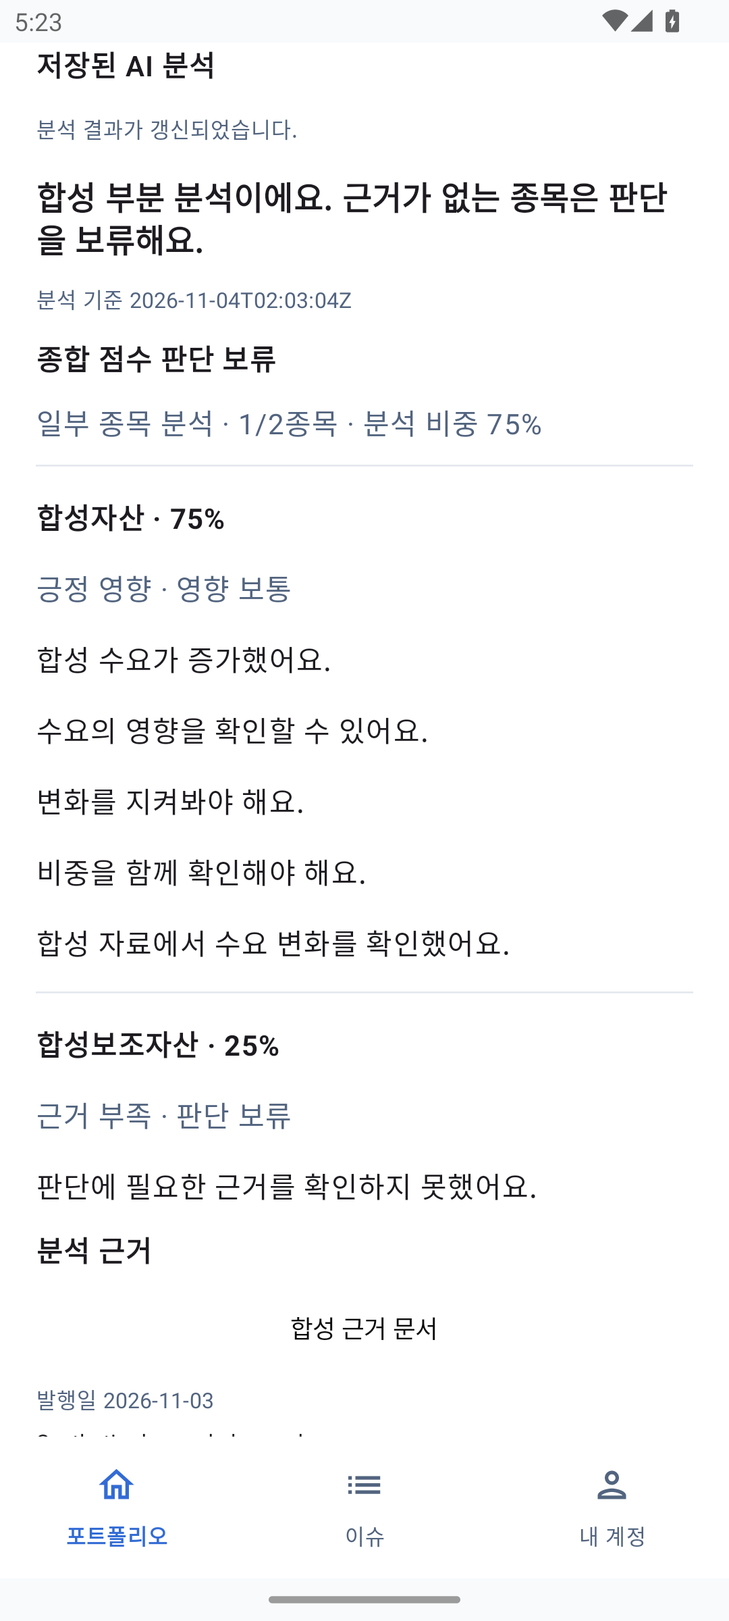
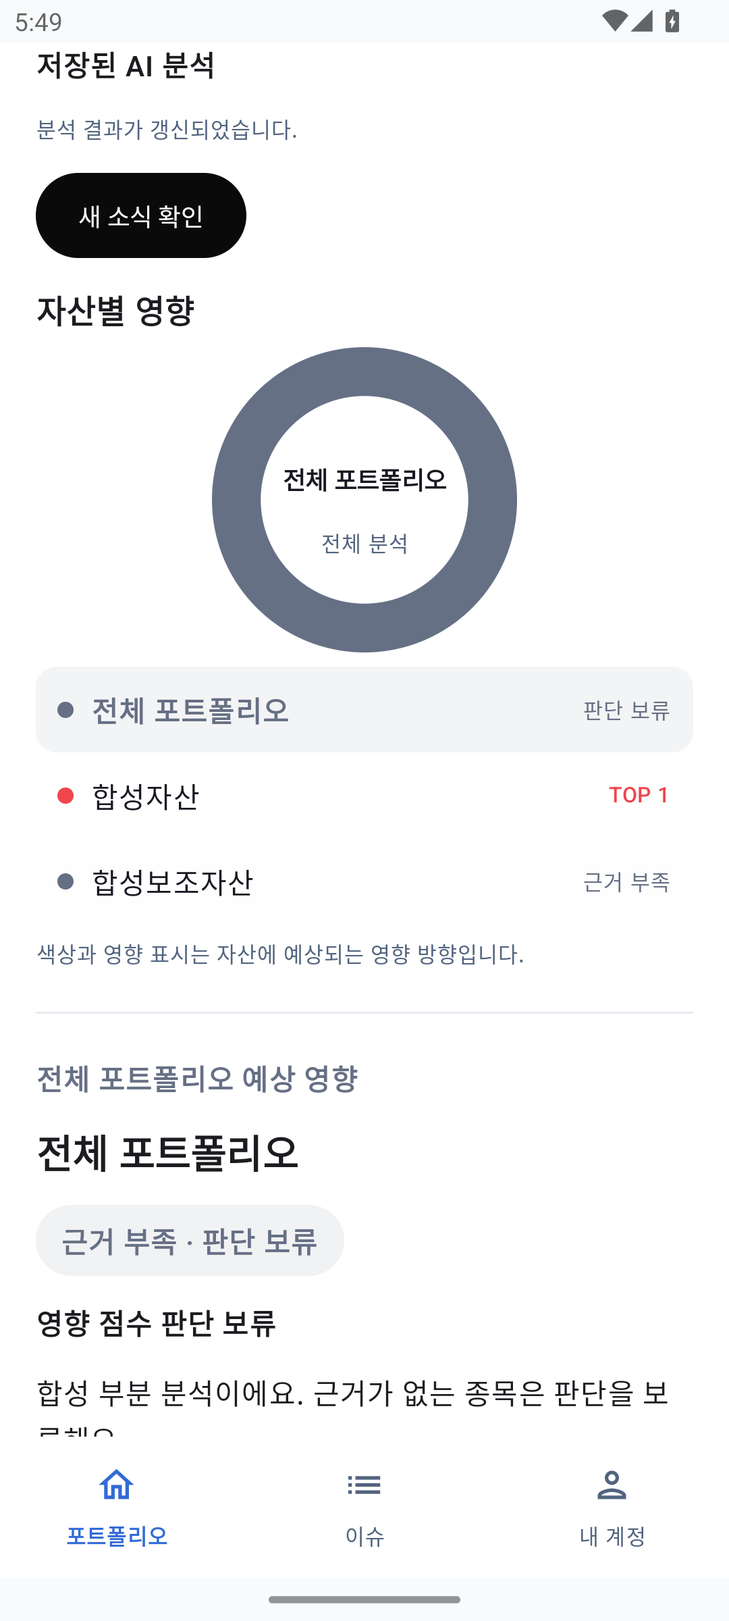
fix: 원본 AI 분석의 도넛과 자산 선택 화면 이식

diff --git a/clients/android/app/src/main/kotlin/org/daynomy/android/PortfolioAiSection.kt b/clients/android/app/src/main/kotlin/org/daynomy/android/PortfolioAiSection.kt
@@ -1,6 +1,19 @@
 package org.daynomy.android
 
 import androidx.compose.foundation.layout.*
+import androidx.compose.foundation.Canvas
+import androidx.compose.foundation.background
+import androidx.compose.foundation.selection.selectable
+import androidx.compose.foundation.shape.RoundedCornerShape
+import androidx.compose.ui.Alignment
+import androidx.compose.ui.graphics.Color
+import androidx.compose.ui.graphics.drawscope.Stroke
+import androidx.compose.ui.geometry.Offset
+import androidx.compose.ui.geometry.Size
+import androidx.compose.ui.platform.LocalDensity
+import java.time.OffsetDateTime
+import java.time.ZoneId
+import java.time.format.DateTimeFormatter
 import androidx.compose.material3.*
 import androidx.compose.runtime.*
 import androidx.compose.runtime.saveable.rememberSaveable
@@ -25,7 +38,7 @@ internal fun PortfolioAiSection(controller: PortfolioAiController, canGenerate: 
             Text(if (expanded) "AI 포트폴리오 분석 접기" else "AI 포트폴리오 분석")
         }
         if (expanded) {
-            Text("보유 종목의 이슈와 영향을 확인하세요.", color = PortfolioStyle.muted)
+            Text("AI 분석", fontSize = 24.sp, fontWeight = FontWeight.Bold)
             if (state.loading || state.submitting) {
                 LinearProgressIndicator(Modifier.fillMaxWidth())
                 Text(if (state.submitting) "AI 분석을 요청하고 있어요." else "저장된 분석을 불러오고 있어요.",
@@ -44,24 +57,24 @@ internal fun PortfolioAiSection(controller: PortfolioAiController, canGenerate: 
                         Text(when (outcome) { "UNCHANGED" -> "같은 근거의 저장된 분석을 재사용했습니다."; "UNCONFIRMED" -> "최신 근거 확인이 필요합니다."; else -> "분석 결과가 갱신되었습니다." },
                             color = PortfolioStyle.muted, style = MaterialTheme.typography.bodySmall)
                     }
-                    saved.analysis?.let { result ->
+                    saved.analysis?.let {
                         if (!saved.matchesCurrentPortfolio || state.portfolioChanged || saved.status in setOf("FAILED", "PROCESSING") || state.message != null) {
                             Text("이전 성공 분석 · 현재 상태와 구분해 확인하세요.", color = PortfolioStyle.muted)
                         }
-                        AiResult(result)
+
                     }
                 }
                 val idle = !state.loading && !state.submitting
                 val allowPost = idle && canGenerate && saved != null && !state.outcomeUnknown && saved.status != "PROCESSING"
-                Column(verticalArrangement = Arrangement.spacedBy(8.dp)) {
-                    Button({ controller.generate() }, enabled = allowPost, shape = PortfolioStyle.pill,
-                        modifier = Modifier.heightIn(min = 48.dp).testTag("ai-generate")) { Text("현재 포트폴리오 분석") }
-                    OutlinedButton({ controller.generate(true) }, enabled = allowPost && saved?.analysis != null, shape = PortfolioStyle.pill,
-                        modifier = Modifier.heightIn(min = 48.dp).testTag("ai-refresh")) { Text("최신 근거 확인") }
-                    TextButton(controller::load, enabled = idle, modifier = Modifier.heightIn(min = 48.dp).testTag("ai-reload")) { Text("저장 상태 다시 조회") }
-                }
+                Button({ controller.generate(true) }, enabled = allowPost && saved?.analysis != null, shape = PortfolioStyle.pill,
+                    colors = ButtonDefaults.buttonColors(containerColor = Color(0xff0a0a0a)),
+                    modifier = Modifier.heightIn(min = 48.dp).testTag("ai-refresh")) { Text("새 소식 확인") }
                 if (!canGenerate) Text("보유 종목을 등록하고 거래 상태를 확인하면 분석을 요청할 수 있어요.", color = PortfolioStyle.muted, style = MaterialTheme.typography.bodySmall)
                 if (state.outcomeUnknown) Text("요청이 처리됐을 수 있습니다. 다시 분석하기 전에 저장 상태를 조회하세요.", color = PortfolioStyle.muted)
+                saved?.analysis?.let { AiResult(it) }
+                OutlinedButton({ controller.generate() }, enabled = allowPost, shape = PortfolioStyle.pill,
+                    modifier = Modifier.heightIn(min = 48.dp).testTag("ai-generate")) { Text("현재 포트폴리오 분석") }
+                TextButton(controller::load, enabled = idle, modifier = Modifier.heightIn(min = 48.dp).testTag("ai-reload")) { Text("저장 상태 다시 조회") }
                 TextButton(controller::loadHistory, enabled = !state.historyLoading && !state.submitting,
                     modifier = Modifier.heightIn(min = 48.dp).testTag("ai-history")) { Text("분석 이력 조회") }
                 if (state.historyLoading) Text("분석 이력을 불러오고 있어요.")
@@ -85,29 +98,117 @@ internal fun PortfolioAiSection(controller: PortfolioAiController, canGenerate: 
 
 @Composable
 private fun AiResult(result: PortfolioAiAnalysis) {
-    Column(verticalArrangement = Arrangement.spacedBy(12.dp)) {
-        Text(result.overallImpact, Modifier.testTag("ai-result"), fontSize = 18.sp, fontWeight = FontWeight.SemiBold)
-        result.analyzedAt?.let { Text("분석 기준 $it", color = PortfolioStyle.muted, style = MaterialTheme.typography.bodySmall) }
-        Text("종합 점수 ${result.overallScore?.stripTrailingZeros()?.toPlainString()?.plus("점") ?: "판단 보류"}", Modifier.testTag("ai-score"), fontWeight = FontWeight.Bold)
-        Text(when (result.coverage) { "COMPLETE" -> "전체 종목 분석"; "PARTIAL" -> "일부 종목 분석"; "INSUFFICIENT" -> "분석 근거 부족"; else -> "분석 범위 정보 없음" } +
-            " · ${result.analyzedAssetCount}/${result.totalAssetCount}종목" + (result.analyzedWeight?.let { " · 분석 비중 ${it.stripTrailingZeros().toPlainString()}%" } ?: ""),
-            Modifier.testTag("ai-coverage"), color = PortfolioStyle.muted)
-        Column(Modifier.testTag("ai-impacts"), verticalArrangement = Arrangement.spacedBy(16.dp)) {
-            result.impacts.forEach { impact ->
-                HorizontalDivider(color = PortfolioStyle.line)
-                Text("${impact.assetName} · ${impact.weight.stripTrailingZeros().toPlainString()}%", fontWeight = FontWeight.Bold)
-                Text(directionLabel(impact.direction) + (impact.impactLevel?.let { " · 영향 ${when (it) { "HIGH" -> "높음"; "MEDIUM" -> "보통"; else -> "낮음" }}" } ?: ""), color = PortfolioStyle.muted)
-                listOf(impact.issueSummary, impact.expectedReaction, impact.outlook, impact.reason, impact.evidenceSentence).filter { it.isNotBlank() }.distinct().forEach { Text(it) }
+    var selectedName by rememberSaveable(result.analyzedAt, result.overallImpact) { mutableStateOf<String?>(null) }
+    var sourcesOpen by rememberSaveable(selectedName, result.analyzedAt) { mutableStateOf(false) }
+    val impacts = result.impacts.sortedBy { it.rank }
+    val selected = impacts.find { it.assetName == selectedName }
+    val direction = selected?.direction ?: if (selected == null) result.overallDirection else null
+    val color = impactColor(direction)
+    val sources = if (selected == null) result.sources else selected.sources
+    val fontScale = LocalDensity.current.fontScale
+    BoxWithConstraints(Modifier.fillMaxWidth()) {
+        val wide = maxWidth >= 600.dp && fontScale < 1.5f
+        val overview: @Composable () -> Unit = {
+            Column(Modifier.fillMaxWidth(), verticalArrangement = Arrangement.spacedBy(8.dp)) {
+                Text("자산별 영향", fontSize = 18.sp, fontWeight = FontWeight.Bold)
+                Box(Modifier.fillMaxWidth(), contentAlignment = Alignment.Center) {
+                    Box(Modifier.size(if (wide || fontScale > 1.3f) 220.dp else 172.dp).testTag("ai-donut")
+                        .semantics { contentDescription = if (selected == null) "전체 포트폴리오, ${directionLabel(direction)}" else "${selected.assetName}, 보유 비중 ${selected.weight}% , ${directionLabel(direction)}" }, contentAlignment = Alignment.Center) {
+                        Canvas(Modifier.fillMaxSize()) {
+                            val stroke = size.minDimension * .16f
+                            val inset = stroke / 2
+                            val arcSize = Size(size.width - stroke, size.height - stroke)
+                            if (selected == null) drawArc(color, -90f, 360f, false, Offset(inset, inset), arcSize, style = Stroke(stroke))
+                            else {
+                                drawArc(Color(0xffe8eef8), -90f, 360f, false, Offset(inset, inset), arcSize, style = Stroke(stroke))
+                                // A partial response is not normalized to 100%; omitted holdings remain inactive.
+                                var start = -90f
+                                impacts.forEach { impact ->
+                                    val sweep = impact.weight.toFloat().coerceIn(0f, 100f) * 3.6f
+                                    if (impact.assetName == selected.assetName) drawArc(color, start, sweep.coerceAtMost((270f - start).coerceAtLeast(0f)), false,
+                                        Offset(inset, inset), arcSize, style = Stroke(stroke))
+                                    start += sweep
+                                }
+                            }
+                        }
+                        Column(Modifier.width(104.dp), horizontalAlignment = Alignment.CenterHorizontally) {
+                            TextButton({ selectedName = null }, contentPadding = PaddingValues(0.dp), modifier = Modifier.heightIn(min = 48.dp)) {
+                                Text(if (selected == null) (if (fontScale > 1.3f) "전체" else "전체 포트폴리오") else "${selected.weight.stripTrailingZeros().toPlainString()}%", fontWeight = FontWeight.Bold, fontSize = 14.sp, color = PortfolioStyle.ink)
+                            }
+                            Text(if (selected == null) "전체 분석" else "보유 비중", fontSize = 12.sp, color = PortfolioStyle.muted)
+                        }
+                    }
+                }
+                Column(Modifier.testTag("ai-impacts")) {
+                    AiSelectionRow("전체 포트폴리오", result.overallScore?.stripTrailingZeros()?.toPlainString()?.plus("점") ?: "판단 보류", result.overallDirection, selected == null, "ai-overall") { selectedName = null }
+                    impacts.forEachIndexed { index, impact ->
+                        AiSelectionRow(impact.assetName, if (impact.direction == null) "근거 부족" else "TOP ${impact.rank}", impact.direction,
+                            selected?.assetName == impact.assetName, "ai-asset-$index", selected == null || selected.assetName == impact.assetName) { selectedName = impact.assetName }
+                    }
+                }
+                Text("색상과 영향 표시는 자산에 예상되는 영향 방향입니다.", color = PortfolioStyle.muted, style = MaterialTheme.typography.bodySmall)
             }
         }
-        val sources = (result.sources + result.impacts.flatMap { it.sources }).distinctBy { it.url }
-        Column(Modifier.testTag("ai-sources"), verticalArrangement = Arrangement.spacedBy(8.dp)) {
-            Text("분석 근거", fontWeight = FontWeight.Bold)
-            if (sources.isEmpty()) Text("제공된 근거 출처가 없습니다.", color = PortfolioStyle.muted)
-            sources.forEach { source -> SourceLink(source) }
+        val detail: @Composable () -> Unit = {
+            Column(Modifier.fillMaxWidth(), verticalArrangement = Arrangement.spacedBy(14.dp)) {
+                Text(if (selected == null) "전체 포트폴리오 예상 영향" else if (selected.direction == null) "보유 종목 · 근거 부족" else "포트폴리오 영향 TOP ${selected.rank} / ${result.analyzedAssetCount}", color = color, fontWeight = FontWeight.SemiBold)
+                Text(selected?.assetName ?: "전체 포트폴리오", fontSize = 22.sp, fontWeight = FontWeight.Bold)
+                Surface(color = color.copy(alpha = .09f), shape = RoundedCornerShape(24.dp)) {
+                    Text(directionLabel(direction), Modifier.padding(horizontal = 14.dp, vertical = 8.dp), color = color, fontWeight = FontWeight.SemiBold)
+                }
+                if (selected == null) Text("영향 점수 ${result.overallScore?.stripTrailingZeros()?.toPlainString()?.let { if (result.overallScore!!.signum() > 0) "+$it" else it }?.plus("점") ?: "판단 보류"}", Modifier.testTag("ai-score"), fontWeight = FontWeight.Bold)
+                else Text("영향 수준 ${when (selected.impactLevel) { "HIGH" -> "높음"; "MEDIUM" -> "보통"; "LOW" -> "낮음"; else -> "판단 보류" }}", color = PortfolioStyle.muted)
+                if (selected == null) Text(result.overallImpact, Modifier.testTag("ai-result"), fontSize = 16.sp, lineHeight = 26.sp)
+                else {
+                    val paragraphs = if (selected.direction == null) listOf("판단에 필요한 근거를 확인하지 못했어요.") else listOf(selected.issueSummary, selected.expectedReaction, selected.outlook)
+                    paragraphs.filter { it.isNotBlank() }.distinct().forEach { Text(it, Modifier.testTag("ai-asset-detail"), fontSize = 16.sp, lineHeight = 26.sp) }
+                }
+                result.analyzedAt?.let { Text(analysisTime(it), color = PortfolioStyle.muted, style = MaterialTheme.typography.bodySmall) }
+                Text(when (result.coverage) { "COMPLETE" -> "전체 종목 분석"; "PARTIAL" -> "일부 종목 분석"; "INSUFFICIENT" -> "분석 근거 부족"; else -> "분석 범위 정보 없음" } +
+                    " · ${result.analyzedAssetCount}/${result.totalAssetCount}종목" + (result.analyzedWeight?.let { " · 분석 비중 ${it.stripTrailingZeros().toPlainString()}%" } ?: ""),
+                    Modifier.testTag("ai-coverage"), color = PortfolioStyle.muted, style = MaterialTheme.typography.bodySmall)
+                Column(Modifier.testTag("ai-sources")) {
+                    TextButton({ sourcesOpen = !sourcesOpen }, modifier = Modifier.heightIn(min = 48.dp).testTag("ai-sources-toggle")
+                        .semantics { stateDescription = if (sourcesOpen) "펼쳐짐" else "접힘" }) {
+                        Text("분석 출처 모두 보기  ${if (sourcesOpen) "−" else "+"}", fontWeight = FontWeight.Bold)
+                    }
+                    if (sourcesOpen) {
+                        if (sources.isEmpty()) Text("제공된 근거 출처가 없습니다.", color = PortfolioStyle.muted)
+                        sources.distinctBy { it.url }.forEach { SourceLink(it) }
+                    }
+                }
+            }
+        }
+        if (wide) Row(horizontalArrangement = Arrangement.spacedBy(32.dp)) {
+            Box(Modifier.weight(.38f)) { overview() }
+            Box(Modifier.weight(.62f)) { detail() }
+        } else Column(verticalArrangement = Arrangement.spacedBy(24.dp)) {
+            overview()
+            HorizontalDivider(color = PortfolioStyle.line)
+            detail()
         }
     }
 }
+
+@Composable
+private fun AiSelectionRow(label: String, suffix: String?, direction: String?, selected: Boolean, tag: String, active: Boolean = true, onClick: () -> Unit) {
+    val color = impactColor(direction)
+    Row(Modifier.fillMaxWidth().background(if (selected) color.copy(alpha = .07f) else Color.Transparent, RoundedCornerShape(12.dp))
+        .selectable(selected, role = Role.RadioButton, onClick = onClick).heightIn(min = 48.dp).testTag(tag).padding(12.dp),
+        verticalAlignment = Alignment.CenterVertically, horizontalArrangement = Arrangement.spacedBy(10.dp)) {
+        Canvas(Modifier.size(9.dp)) { drawCircle(if (active) color else Color(0xffe8eef8)) }
+        Text(label, Modifier.weight(1f), color = if (selected) color else PortfolioStyle.ink, fontWeight = if (selected) FontWeight.Bold else FontWeight.Normal)
+        suffix?.let { Text(it, color = color, style = MaterialTheme.typography.labelMedium) }
+    }
+}
+private fun impactColor(direction: String?): Color = when (direction) {
+    "POSITIVE" -> Color(0xffef464d)
+    "NEGATIVE" -> Color(0xff3e83d7)
+    else -> Color(0xff667085)
+}
+private fun analysisTime(value: String): String = try {
+    OffsetDateTime.parse(value).atZoneSameInstant(ZoneId.systemDefault()).format(DateTimeFormatter.ofPattern("yyyy.MM.dd HH:mm")) + " 분석 기준"
+} catch (_: Exception) { "분석 기준 $value" }
 
 @Composable
 private fun SourceLink(source: PortfolioAiSource) {

diff --git a/clients/android/app/src/androidTest/kotlin/org/daynomy/android/PortfolioAiScreenTest.kt b/clients/android/app/src/androidTest/kotlin/org/daynomy/android/PortfolioAiScreenTest.kt
@@ -107,10 +107,14 @@ class PortfolioAiScreenTest {
             openAi(); awaitSummary()
             compose.onNodeWithTag("ai-result").assertTextContains(SUMMARY, substring = true)
             compose.onNodeWithTag("ai-score").assertTextContains("37.5", substring = true)
+            compose.onNodeWithTag("ai-donut").assertExists()
             compose.onNodeWithTag("ai-coverage").assertExists()
             compose.onNodeWithTag("ai-impacts").assertExists()
+            compose.onAllNodesWithText("합성 근거 문서", substring = true).assertCountEquals(0)
+            click("ai-sources-toggle")
             compose.onNodeWithTag("ai-sources").assertExists()
             assertTrue(compose.onAllNodesWithText("합성 근거 문서", substring = true).fetchSemanticsNodes().isNotEmpty())
+            click("ai-sources-toggle")
             assertEquals(0, posts())
             capture("ai-ready")
             click("ai-generate"); awaitIdleAction("ai-generate")
@@ -131,9 +135,41 @@ class PortfolioAiScreenTest {
             compose.onNodeWithTag("ai-score").assertTextContains("판단 보류", substring = true)
             compose.onNodeWithTag("ai-score").assert(hasText("0점", substring = true).not())
             compose.onNodeWithTag("ai-coverage").assertExists()
+            click("ai-asset-1")
             assertTrue(compose.onAllNodesWithText("판단에 필요한 근거를 확인하지 못했어요.", substring = true).fetchSemanticsNodes().isNotEmpty())
+            click("ai-overall"); awaitSummary(PARTIAL_SUMMARY)
             assertEquals(0, posts())
             capture("ai-partial")
+        }
+    }
+
+    @Test fun donutAssetSelectionChangesDetailAndOverallRestoresSummaryWithoutRequests() {
+        launch().use {
+            openAi(); awaitSummary()
+            compose.onNodeWithTag("ai-donut").assertExists()
+            val initialReads = reads()
+            click("ai-asset-0")
+            compose.onNodeWithText("합성 수요가 증가했어요.").performScrollTo().assertIsDisplayed()
+            compose.onNodeWithText("변화를 지켜봐야 해요.").assertExists()
+            capture("ai-selected")
+            compose.onAllNodesWithText(SUMMARY, substring = true).assertCountEquals(0)
+            click("ai-sources-toggle")
+            compose.onNodeWithText("합성 근거 문서", substring = true).assertExists()
+            compose.onAllNodesWithText("합성 보조 근거 문서", substring = true).assertCountEquals(0)
+            click("ai-sources-toggle")
+            click("ai-overall"); awaitSummary()
+            compose.onNodeWithTag("ai-result").assertTextContains(SUMMARY, substring = true)
+            compose.onNodeWithTag("ai-score").assertTextContains("37.5", substring = true)
+            compose.onAllNodesWithText("합성 근거 문서", substring = true).assertCountEquals(0)
+            click("ai-sources-toggle")
+            assertTrue(compose.onAllNodesWithText("합성 근거 문서", substring = true).fetchSemanticsNodes().isNotEmpty())
+            compose.onNodeWithText("합성 보조 근거 문서", substring = true).assertExists()
+            compose.onNodeWithText("Synthetic demand changed.", substring = true).assertExists()
+            click("ai-sources-toggle")
+            compose.onAllNodesWithText("합성 근거 문서", substring = true).assertCountEquals(0)
+            compose.onAllNodesWithText("합성 보조 근거 문서", substring = true).assertCountEquals(0)
+            assertEquals(initialReads, reads())
+            assertEquals(0, posts())
         }
     }
 
@@ -266,12 +302,13 @@ class PortfolioAiScreenTest {
         private const val SUMMARY = "합성 검증 결과예요. 반도체 수요의 영향을 확인해야 해요."
         private const val PARTIAL_SUMMARY = "합성 부분 분석이에요. 근거가 없는 종목은 판단을 보류해요."
         private const val SOURCE = """{"title":"합성 근거 문서","url":"https://example.invalid/synthetic-evidence","publishedOn":"2026-11-03","occurredOn":null,"excerpt":"합성 자료에서 수요 변화를 확인했어요.","factQuote":"Synthetic demand changed."}"""
+        private const val AUX_SOURCE = """{"title":"합성 보조 근거 문서","url":"https://example.invalid/synthetic-secondary-evidence","publishedOn":"2026-11-02","occurredOn":null,"excerpt":"합성 보조 자료의 변화를 확인했어요.","factQuote":"Synthetic secondary evidence changed."}"""
         private fun error(code: String) = """{"code":"$code","message":"synthetic AI fixture failure"}"""
         private fun analysis(partial: Boolean = false): String {
             val first = """{"assetName":"합성자산","weight":75,"direction":"POSITIVE","impactLevel":"MEDIUM","issueSummary":"합성 수요가 증가했어요.","expectedReaction":"수요의 영향을 확인할 수 있어요.","outlook":"변화를 지켜봐야 해요.","reason":"비중을 함께 확인해야 해요.","evidenceSentence":"합성 자료에서 수요 변화를 확인했어요.","sources":[$SOURCE],"rank":1,"evidenceStatus":"SUPPORTED"}"""
             val second = if (partial) """{"assetName":"합성보조자산","weight":25,"direction":null,"impactLevel":null,"issueSummary":"판단에 필요한 근거를 확인하지 못했어요.","expectedReaction":"","outlook":"","reason":"판단에 필요한 근거를 확인하지 못했어요.","evidenceSentence":"판단에 필요한 근거를 확인하지 못했어요.","sources":[],"rank":2,"evidenceStatus":"INSUFFICIENT"}"""
-                else """{"assetName":"합성보조자산","weight":25,"direction":"NEGATIVE","impactLevel":"LOW","issueSummary":"합성 변화를 확인했어요.","expectedReaction":"추가 확인이 필요해요.","outlook":"자료를 지켜봐야 해요.","reason":"영향이 제한적이에요.","evidenceSentence":"합성 자료에서 수요 변화를 확인했어요.","sources":[$SOURCE],"rank":2,"evidenceStatus":"SUPPORTED"}"""
-            return """{"totalAssetCount":2,"analyzedAssetCount":${if (partial) 1 else 2},"selectedAssetCount":2,"overallDirection":${if (partial) "null" else "\"POSITIVE\""},"overallScore":${if (partial) "null" else "37.5"},"positiveImpactScore":45,"negativeImpactScore":${if (partial) 0 else 7.5},"analyzedAt":"2026-11-04T02:03:04Z","overallImpact":"${if (partial) PARTIAL_SUMMARY else SUMMARY}","impacts":[$first,$second],"sources":[$SOURCE],"excludedAssets":[],"analyzedWeight":${if (partial) 75 else 100},"coverage":"${if (partial) "PARTIAL" else "COMPLETE"}"}"""
+                else """{"assetName":"합성보조자산","weight":25,"direction":"NEGATIVE","impactLevel":"LOW","issueSummary":"합성 변화를 확인했어요.","expectedReaction":"추가 확인이 필요해요.","outlook":"자료를 지켜봐야 해요.","reason":"영향이 제한적이에요.","evidenceSentence":"합성 보조 자료의 변화를 확인했어요.","sources":[$AUX_SOURCE],"rank":2,"evidenceStatus":"SUPPORTED"}"""
+            return """{"totalAssetCount":2,"analyzedAssetCount":${if (partial) 1 else 2},"selectedAssetCount":2,"overallDirection":${if (partial) "null" else "\"POSITIVE\""},"overallScore":${if (partial) "null" else "37.5"},"positiveImpactScore":45,"negativeImpactScore":${if (partial) 0 else 7.5},"analyzedAt":"2026-11-04T02:03:04Z","overallImpact":"${if (partial) PARTIAL_SUMMARY else SUMMARY}","impacts":[$first,$second],"sources":[$SOURCE${if (partial) "" else ",$AUX_SOURCE"}],"excludedAssets":[],"analyzedWeight":${if (partial) 75 else 100},"coverage":"${if (partial) "PARTIAL" else "COMPLETE"}"}"""
         }
         private fun wrapper(status: String = "READY", body: String? = analysis()) = """{"status":"$status","lastCheckOutcome":${if (body == null) "null" else "\"UPDATED\""},"analysisId":${if (body == null) "null" else "91"},"matchesCurrentPortfolio":${status != "PORTFOLIO_CHANGED" && body != null},"lastSucceededAt":${if (body == null) "null" else "\"2026-11-04T02:03:04Z\""},"lastFailedAt":null,"failureCode":null,"changeReason":null,"analysis":${body ?: "null"}}"""
     }

diff --git a/docs/time-token-experiment.md b/docs/time-token-experiment.md
@@ -322,6 +322,14 @@ prompt 11,780→1,465 bytes와 달리 전체 토큰은 495개(0.65%)만 적고 B
 
 부분관찰 2026-11-04T08:02:48.700Z→2026-11-04T08:32:48.490Z(UTC),29분59초. 부모input 17,814,900(cached 17,774,464,non-cached 40,436),output 43,469(reasoning포함),total 17,858,369. 로컬누적token_count차이이며검증agent2개사용량·이후기록/커밋/PR/최종응답제외·비용/Langfuse수집미확인·누락은0아님. 일부넓은출력잘림/인증경계추가수정/캡처보정비용이있었으며절감효과를주장하지않는다. 신규하네스/원본서버/외부AI모델/ImageGen은호출하지않았다. root의동명관찰문서는다른작업에서과제1/2중심으로재편되어실험4절이없으므로덮어쓰지않고현재작업브랜치의기존실험4에만이구현기록을이어남겼다.
 
+### 원본 AI 시각 구조 보정 — Issue #15 · PR #19
+
+사용자 제공 휴대폰/데스크톱 원본을 기준으로 기존 텍스트 나열을 Compose 도넛·전체/종목 선택·영향 설명·접힌 출처로 교체했다. 기존 API/controller/auth 코드는 유지했다. ui-ux-pro-max의 Compose semantics 안내를 참고했고 독립 Android 검증 agent가 선택 강조/출처 범위를 확인했다. 다른 새 시안·이미지 생성·DB/모델 호출·하네스는 실행하지 않았다.
+
+검증: 최종 AI 네이티브10개22.325초, 글자200% 정상/부분2개5.851초 통과, 최종 APK/테스트 APK/lint 성공. 캡처 추가 후 선택/출처1개를 재검사하고 정상/부분/선택/큰 글꼴 PNG와 코드/APK 해시를 갱신했다. 첫 전체10개24.172초도 통과했으며 이후 비선택dot/출처fixture/큰 글꼴 중앙문구 보정 때문에 재검사했다. 선택 캡처 호출 추가가 적용되지 않아 첫pull이 실패했고 해당호출을 실제추가한 뒤1개만 다시 실행했다. 외부AI·OAuth·TalkBack·태블릿·다크모드는 미검증이다. 확인용 에뮬레이터에 최종 APK를 설치/실행했다.
+
+부분 측정: 사용자 요청2026-11-04T08:44:35.334Z→절단08:53:35.940Z, 약9분00.606초. 부모 입력2,846,225(캐시2,760,960·비캐시85,265), 출력11,196(그중reasoning1,243), 합계2,857,421토큰. 캐시는 입력의 부분집합이며 추론은 출력에 포함된다. agent 토큰·최종 기록/커밋/push/PR갱신 이후분은 이 절단에 포함되지 않는다. 누락을0으로 쓰지 않으며 비용/절감률은 계산하지 않는다. root에서 별도 편집중인 관찰문서는 건드리지 않고 기존 작업브랜치 실험4에만 이어 적었다.
+
 ## 후속 관찰 — 왜 이번에도 시간·토큰이 컸나?
 
 2026-11-04. 기존 원본 세션의 response_id별 token_usage_record와 명령 실행 시각으로 확인했다. 기능·검사 재실행이나 새 계측 도구는 만들지 않았다. 상세 검증·Cloud 링크는 [기존 로그 분석 §8](../runs/022-log-bottlenecks.md#8-android-뉴스-검색--2026-11-04-후속-관찰)에 있다. 이번 분석 답변의 비용은 아래 완료 작업 집계에서 제외한다.

diff --git a/docs/design/2026-11-04-web-reference/README.md b/docs/design/2026-11-04-web-reference/README.md
@@ -124,3 +124,9 @@
 [저장 분석 실제 Compose](android/ai-ready.png) · [부분 분석](android/ai-partial.png) · [큰 글꼴](android/ai-ready-font200.png) · [API/상태 계약](../../../spec/android-native/ai-analysis.md)
 
 자산 요약 아래 AI 분석을 펼치면 GET으로 저장 결과를 읽는다. 분석 생성/최신 근거 확인·이력은 기존 회원 API를 명시적으로 호출한다. 이전 성공 보존·null 점수 판단 보류·부분/근거 부족·출처·세션 만료를 구분한다. 캡처는 검증용 합성 AI 응답이며 실제 외부 모델이 생성한 금융 분석이 아니다. 제품에 샘플 결과를 하드코딩하지 않았다.
+
+### 원본 AI 분석 시각 이식 보정
+
+앞선 텍스트 나열 화면을 원본 웹의 도넛·자산 선택 목록·영향 상세·접힌 출처로 교체했다. 위 AI 캡처는 이 보정 결과로 갱신한다. 휴대폰에서는 도넛을 줄이고 순서대로 배치하며, 넓은 화면에는 두 열을 사용한다. 선택만으로 API를 재호출하지 않는다. 전체/종목 출처를 구분하고 서버가 제공하지 않는 일일 잔여 횟수는 표시하지 않는다. 원본 스크린샷을 제품에 넣지 않고 Canvas와 실제 Compose 입력으로 구현했다.
+
+[종목 선택 시 실제 비중·상세 전환](android/ai-selected.png). 합성 테스트 응답의 기기 캡처다.
